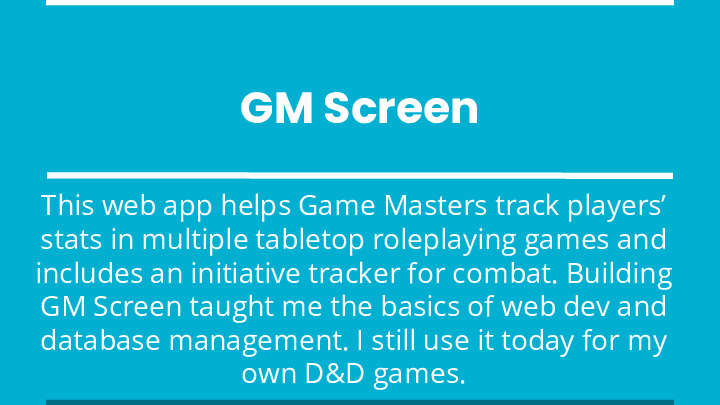
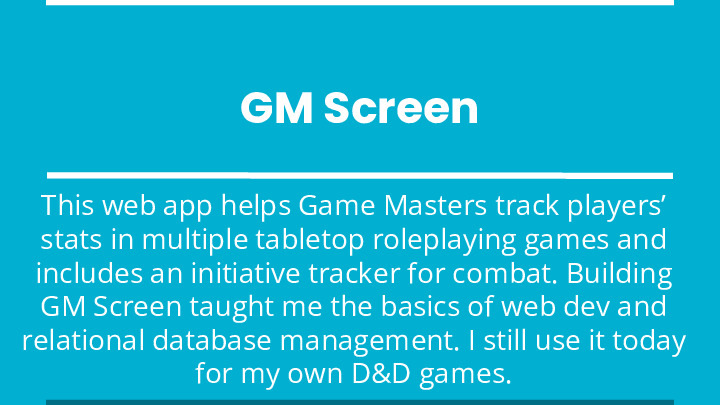
reworded the gm-screen summary and fixde typos in index.html

Changed region(s): [[0.0306, 0.8, 0.9472, 0.9778]]

diff --git a/templates/index.html b/templates/index.html
@@ -172,6 +172,14 @@
               </div>
             </div>
 
+            <div class="progress">
+              <span class="skill">JavaScript <i class="val">50%</i></span>
+              <div class="progress-bar-wrap">
+                <div class="progress-bar" role="progressbar" aria-valuenow="50" aria-valuemin="0" aria-valuemax="100">
+                </div>
+              </div>
+            </div>
+
           </div>
 
           <div class="col-lg-6" data-aos="fade-up" data-aos-delay="100">
@@ -180,6 +188,14 @@
               <span class="skill">SQL <i class="val">65%</i></span>
               <div class="progress-bar-wrap">
                 <div class="progress-bar" role="progressbar" aria-valuenow="65" aria-valuemin="0" aria-valuemax="100">
+                </div>
+              </div>
+            </div>
+
+            <div class="progress">
+              <span class="skill">HTML <i class="val">50%</i></span>
+              <div class="progress-bar-wrap">
+                <div class="progress-bar" role="progressbar" aria-valuenow="50" aria-valuemin="0" aria-valuemax="100">
                 </div>
               </div>
             </div>
@@ -222,7 +238,7 @@
           </p>
           <ul>
             <li>Select an image</li>
-            <li>Click the <i class="bx bx-plus"></i> icon for a summary of the project</li>
+            <li>Click the <i class="bx bx-plus"></i> icon for a quick summary</li>
             <li>Click the <i class="bx bx-link"></i> icon to see the project itself</li>
           </ul>
         </div>
@@ -383,7 +399,7 @@
               </ul>
             </div>
             <div class="resume-item">
-              <h4>Dr. Young Lab - WWU Biology Department</h4>
+              <h4>Research Assistant</h4>
               <h5>2013 - 2015</h5>
               <p><em>Dr. Young Lab - WWU Biology Department, Bellingham, WA</em></p>
               <ul>
